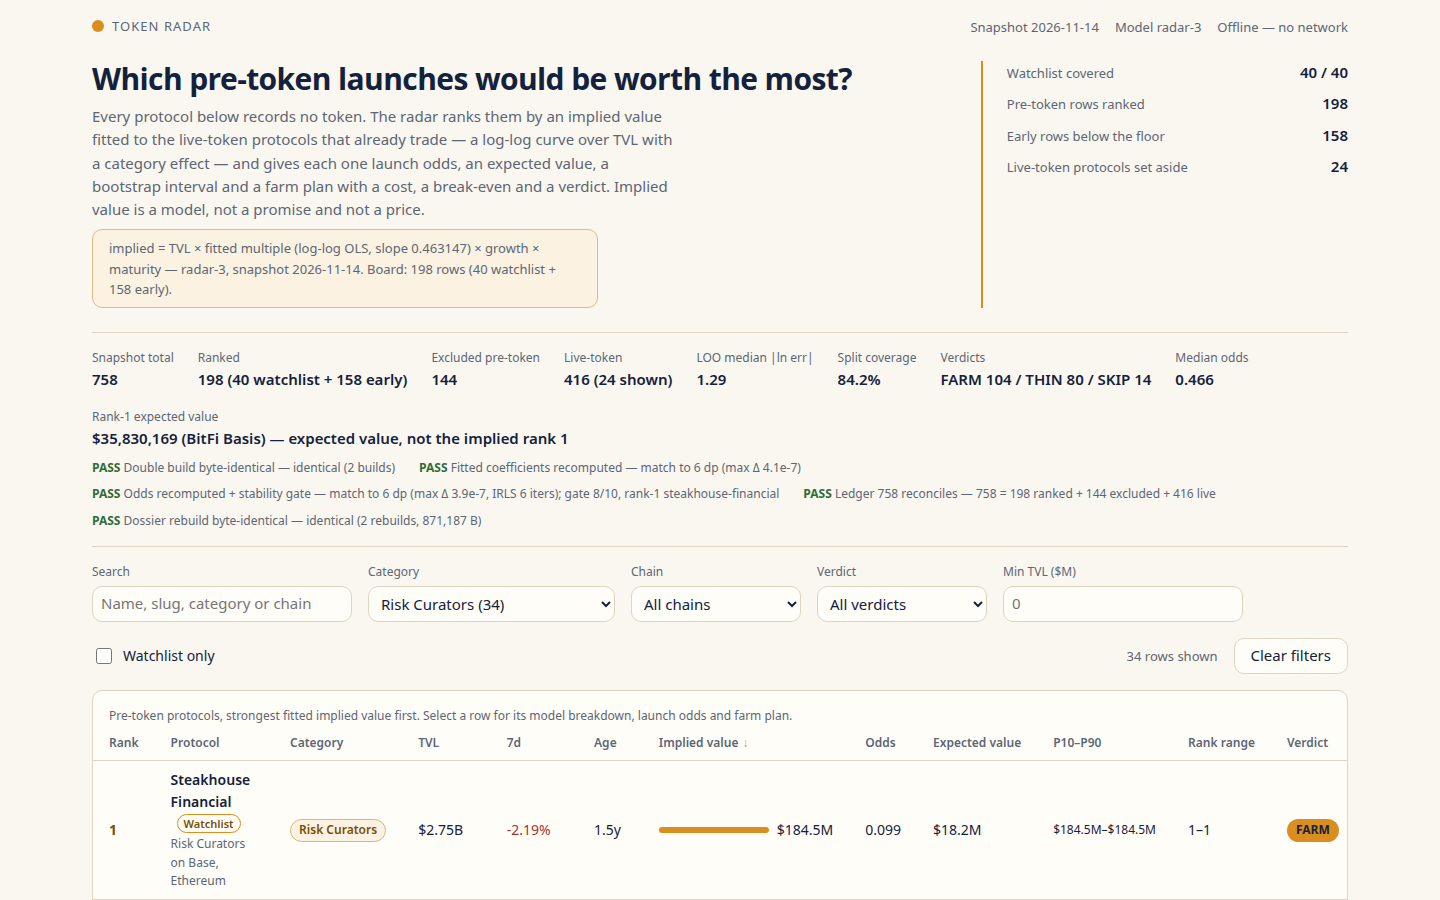
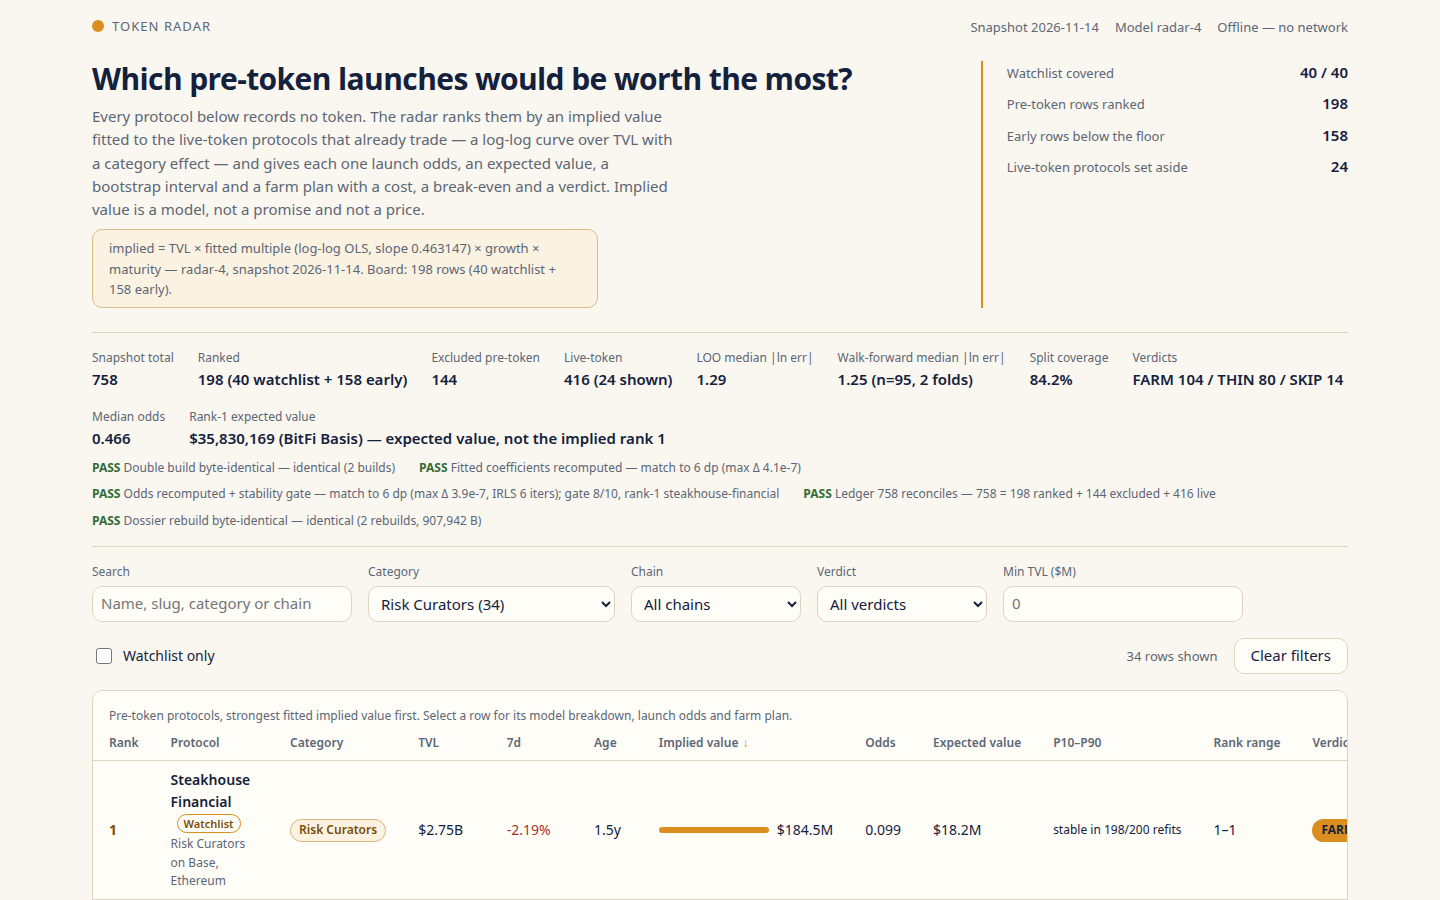
Radar-4 T5: dashboard rendering (WF KPI + methodology, ablation table, comps, stable intervals) + screenshots + verify V22-V25
Dashboard 62,906 B (<=65,000 target). Screenshots re-rendered 1440x900
(1280x720 would fail the RULES.txt short-side >=800px gate):
1-board 180,283 B, 2-detail 283,347 B, 3-filtered 182,246 B.
Verify 25/25 (new V22 walk-forward, V23 ablation, V24 comps, V25 DOM),
behaviour 41/41, hash edge 10/10, double-run diff -r clean.
Board sha 78704c86, dossier 926,214 B sha bb1cb93a.

diff --git a/dashboard/app.js b/dashboard/app.js
@@ -44,6 +44,14 @@
   function fmtRange(lo, hi) {
     return fmtUsd(lo) + '–' + fmtUsd(hi);
   }
+  // Collapsed bootstrap intervals (P10 = P90) are shown as the measured
+  // refit count, never as two identical bounds (radar-4 T4).
+  function fmtInterval(r) {
+    if (r.stable_refits !== null && r.stable_refits !== undefined) {
+      return 'stable in ' + r.stable_refits + '/' + DATA.assumptions.bootstrap_b + ' refits';
+    }
+    return fmtRange(r.p10_usd, r.p90_usd);
+  }
   function median(xs) {
     var s = xs.slice().sort(function (a, b) { return a - b; });
     var m = s.length >> 1;
@@ -237,7 +245,7 @@
         )),
         el('td', { class: 'num', text: fmtOdds(r.odds) }),
         el('td', { class: 'num', text: fmtUsd(r.expected_value_usd) }),
-        el('td', { class: 'num interval', text: fmtRange(r.p10_usd, r.p90_usd) }),
+        el('td', { class: 'num interval', text: fmtInterval(r) }),
         el('td', { class: 'num', text: r.rank_lo + '–' + r.rank_hi }),
         el('td', null, el('span', { class: 'verdict v-' + r.verdict.toLowerCase(), text: r.verdict }))
       );
@@ -311,6 +319,7 @@
       ['Excluded pre-token', String(L.excluded_pre)],
       ['Live-token', L.live + ' (' + L.live_shown + ' shown)'],
       ['LOO median |ln err|', F.loo_median.toFixed(2)],
+      ['Walk-forward median |ln err|', F.walk_forward.pooled_median.toFixed(2) + ' (n=' + F.walk_forward.n + ', 2 folds)'],
       ['Split coverage', (F.split_coverage * 100).toFixed(1) + '%'],
       ['Verdicts', 'FARM ' + V.FARM + ' / THIN ' + V.THIN + ' / SKIP ' + V.SKIP],
       ['Median odds', DATA.median_odds.toFixed(3)],
@@ -370,6 +379,15 @@
         return [h.variant, [h.loo_median.toFixed(4), 'num'], [h.loo_rmse.toFixed(4), 'num'], [h.split_median.toFixed(4), 'num']];
       })));
     fitDiv.appendChild(el('p', { text: 'Held-out evidence for the fitted model: LOO median |ln err| ' + F.loo_median.toFixed(4) + ', LOO RMSE ' + F.loo_rmse.toFixed(4) + ', 70/30 split median |ln err| ' + F.split_median.toFixed(4) + ' (seed ' + A.split_seed + ', test = first 38 of the seeded shuffle), R² ' + F.r2.toFixed(4) + ', residual SD ' + F.resid_sd.toFixed(4) + '. P10–P90 coverage is ' + (F.loo_coverage * 100).toFixed(1) + '% (LOO) and ' + (F.split_coverage * 100).toFixed(1) + '% (split) against a target of 80%. Honest limit: the fit is weak in absolute terms (R² 0.25; a typical live token’s market cap is mispredicted by a factor of e^' + F.loo_median.toFixed(2) + ' ≈ 3.6 at the LOO median). It beats the median model; it does not predict market cap precisely.' }));
+    // --- walk-forward + ablation (radar-4) ---
+    var WF = F.walk_forward;
+    fitDiv.appendChild(el('p', { text: 'Walk-forward validation: the ' + WF.n + ' live-token protocols with a listed date (' + WF.n_null_excluded + ' record no date and are excluded, never imputed; ' + WF.earliest + ' to ' + WF.latest + ') are ordered oldest first. Fitting on the oldest ' + WF.folds[0].train + ' and testing the ' + WF.folds[0].test + ' newest gives median |ln err| ' + WF.folds[0].median.toFixed(4) + ' (coverage ' + (WF.folds[0].coverage * 100).toFixed(1) + '%); fitting on the oldest ' + WF.folds[1].train + ' and testing the ' + WF.folds[1].test + ' newest gives ' + WF.folds[1].median.toFixed(4) + ' (coverage ' + (WF.folds[1].coverage * 100).toFixed(1) + '%). Pooled over both folds (' + (WF.folds[0].test + WF.folds[1].test) + ' test predictions; the 15 newest are counted in both folds) the median is ' + WF.pooled_median.toFixed(4) + ' (coverage ' + (WF.pooled_coverage * 100).toFixed(1) + '%). The comparable leave-one-out median on the same implied basis (clamped multiple) is ' + WF.loo_implied_median.toFixed(4) + '. The second fold is worse than the first — reported as measured, not as a pass.' }));
+    fitDiv.appendChild(miniTable('Ablation — blind-test median |ln err| with each term removed (implied basis, clamped multiple). A term is dropped only when removing it improves both blind tests by more than the drop bar; no term cleared it, so every term is kept and the ranking is unchanged.',
+      ['Term', 'LOO without', 'Δ LOO', 'Walk-forward pooled without', 'Decision'],
+      F.ablation.map(function (a) {
+        return [a.term, [a.loo_without.toFixed(4), 'num'], [(a.loo_delta >= 0 ? '+' : '') + a.loo_delta.toFixed(4), 'num'], [a.wf_pooled_without.toFixed(4), 'num'], a.decision];
+      })));
+    fitDiv.appendChild(el('p', { text: F.ablation.map(function (a) { return a.term + ': ' + a.note; }).join(' ') }));
 
     // --- launch odds ---
     var oddsDiv = document.getElementById('methodOdds');
@@ -490,7 +508,7 @@
         ['Implied value', [money.format(ra.implied_value_usd), 'num'], [money.format(rb.implied_value_usd), 'num']],
         ['Odds', [fmtOdds(ra.odds), 'num'], [fmtOdds(rb.odds), 'num']],
         ['Expected value', [money.format(ra.expected_value_usd), 'num'], [money.format(rb.expected_value_usd), 'num']],
-        ['P10–P90', [fmtRange(ra.p10_usd, ra.p90_usd), 'num'], [fmtRange(rb.p10_usd, rb.p90_usd), 'num']],
+        ['P10–P90', [fmtInterval(ra), 'num'], [fmtInterval(rb), 'num']],
         ['Rank range', [(ra.rank_lo + '–' + ra.rank_hi), 'num'], [(rb.rank_lo + '–' + rb.rank_hi), 'num']],
         ['Verdict', ra.verdict, rb.verdict],
         ['Farm cost', [money.format(ra.farm_cost_usd), 'num'], [money.format(rb.farm_cost_usd), 'num']],
@@ -547,13 +565,21 @@
       el('p', { text: multLine + '. The curve is log mcap = ' + m.intercept + ' + ' + m.slope + ' × ln(TVL) + category effect, fitted to the ' + DATA.fit.n + ' live-token protocols; the D1r median multiple for this category (' + m.d1r_multiple + ') is the fallback. ' + growthWord + ' Maturity multiplier ' + m.maturity_multiplier + ' rewards ' + fmtAge(row.age_days) + ' of life with no token on record. The fit is weak in absolute terms (R² ' + DATA.fit.r2.toFixed(2) + ') — see Methodology.' })
     ));
     dialog.appendChild(el('section', { class: 'detail-section' },
+      el('h3', { text: 'Anchored by traded tokens' }),
+      el('p', { text: 'The implied value is anchored to the three traded tokens nearest in TVL' + (row.comps_same_category < 3 ? ' — only ' + row.comps_same_category + ' of the 3 share this category, the rest are the TVL-nearest tokens of any category.' : ', all three in this category.') }),
+      el('ul', { class: 'comps' }, row.comps.map(function (c) {
+        return el('li', null, el('b', { text: c.name }),
+          document.createTextNode(' — mcap/TVL ' + c.multiple + (c.same_category ? ' (same category)' : ' (other category)') + ', TVL ' + fmtUsd(c.tvl_usd)));
+      }))
+    ));
+    dialog.appendChild(el('section', { class: 'detail-section' },
       el('h3', { text: 'Launch odds and expected value' }),
       el('p', { text: 'Odds ' + fmtOdds(row.odds) + ' — a peer-resemblance score, not a forecast that a token will launch. Expected value ' + money.format(row.expected_value_usd) + ' = implied value × odds.' }),
       el('p', { text: 'Odds inputs: ln(age ' + (row.age_days === null ? '365 (unknown)' : row.age_days + 'd') + ') = ' + Math.log(row.age_days === null ? 365 : row.age_days).toFixed(3) + '; growth term ' + (row.change_7d === null ? '0' : (Math.min(60, Math.max(-40, row.change_7d)) / 100).toFixed(3)) + '; peer rate in this category ' + (row.peer_shrunk * 100).toFixed(1) + '% (shrunk), peer logit ' + row.peer_logit.toFixed(3) + '. The snapshot holds no launch event, so no true launch rate can be estimated.' })
     ));
     dialog.appendChild(el('section', { class: 'detail-section' },
       el('h3', { text: 'Uncertainty (bootstrap)' }),
-      el('p', { text: 'P10–P90 ' + fmtRange(row.p10_usd, row.p90_usd) + (row.p10_usd === row.p90_usd ? ' — at clamp bound: the fitted multiple sits at the clamp bound in nearly every refit, so the interval is degenerate; the rank range beside it is the computed range, narrow for the top rows.' : '.') + ' Rank range ' + row.rank_lo + '–' + row.rank_hi + ' across ' + DATA.assumptions.bootstrap_b + ' refits. Wide ranges are shown as computed, never shrunk.' })
+      el('p', { text: (row.stable_refits !== null && row.stable_refits !== undefined ? 'P10–P90 stable in ' + row.stable_refits + '/' + DATA.assumptions.bootstrap_b + ' refits — the fitted multiple sits at the clamp bound in nearly every refit, so the interval is degenerate; the rank range beside it is the computed range, narrow for the top rows.' : 'P10–P90 ' + fmtRange(row.p10_usd, row.p90_usd) + '.') + ' Rank range ' + row.rank_lo + '–' + row.rank_hi + ' across ' + DATA.assumptions.bootstrap_b + ' refits. Wide ranges are shown as computed, never shrunk.' })
     ));
     dialog.appendChild(el('section', { class: 'detail-section' },
       el('h3', { text: 'Farm plan — 7 steps' }),

diff --git a/tests/hash-edge-cases.py b/tests/hash-edge-cases.py
@@ -24,7 +24,7 @@ import tempfile
 from pathlib import Path
 
 ROOT = Path(__file__).resolve().parent.parent
-SNAPSHOT = '/home/hatch/workspace/makefun/scout-2026-11-21/kits/token-radar-01/input/snapshot.json'
+SNAPSHOT = '/home/hatch/workspace/makefun/token-radar/kit-fresh/token-radar-01-kit/input/snapshot.json'
 
 failures = []
 

diff --git a/BUILD.md b/BUILD.md
@@ -716,3 +716,43 @@ disentuh: `dashboard/app.js`, `BUILD.md` (bagian ini + 3 hitungan suite),
 - **Angka model/board TIDAK berubah:** top-10, verdict FARM 104 / THIN 80 /
   SKIP 14, LOO 1.2908, R² 0.2493, AUC 0.7647, EV maks $35,830,169 —
   semuanya sama; V15–V21 recompute independen tetap lolos.
+
+## radar-4 (tickets T1–T5, spec radar-4 + amendment Fase A) — 23 Nov 2026, Fase B (build)
+
+- **Built:** branch `radar-4` dari HEAD `2cdce26`. Model commit `8e5f420`
+  (T1–T4 model + behaviour), dashboard/screenshot commit menyusul. Status:
+  BUILD ONLY — NO submit, NO bundle, NO check-submit, NO push, NO wallet baru.
+  Kit fresh level 38; snapshot byte-identik dengan kit 21 Nov (sha `42a71213…`).
+- **T1 walk-forward (n=95 dated live, 33 null excluded, tanpa imputasi):**
+  lipatan 66/29 median 1.2004 coverage 79.3%; lipatan 80/15 median 2.2077
+  coverage 73.3%; gabungan (44 prediksi, 15 termuda di kedua lipatan) median
+  1.2509 coverage 77.3%; LOO implied-basis (clamped) 1.2490. Basis = implied
+  dengan clamp 0.08–0.60 (41/128 live-token di luar clamp) — versi pertama
+  tanpa clamp memberi angka berbeda (gabungan 1.3779) dan diperbaiki setelah
+  script recompute kedua menangkapnya (lihat
+  `verification/build-log-radar4.md` §0).
+- **T2 ablasi (LOO / WF gabungan, full 1.2490 / 1.2509; drop bar 0.05):**
+  slope/size 1.2006 / 1.3403, growth 1.3106 / 1.3183, maturity 1.2387 / 1.3542,
+  category effects 1.2434 / 1.2126 — semua KEEP, tidak ada term lolos bar.
+  Board ranking TIDAK berubah; top-10 dan verdict (FARM 104 / THIN 80 /
+  SKIP 14) sama dengan radar-3.1.
+- **T3 comps:** 3 traded-token terdekat per baris (|ln TVL ratio|,
+  se-kategori dulu, TVL terdekat lintas kategori); 102/198 baris butuh
+  fallback (18 dengan 0 se-kategori). Dialog detail menampilkan "Anchored by".
+- **T4:** 5 baris p10==p90 menampilkan "stable in N/200 refits" dengan N
+  terukur (steakhouse 198, sentora 198, gauntlet 197, veda 196, usdd 188) —
+  bukan 200/200. Angka bootstrap di data.js tidak berubah.
+- **T5:** dashboard 62.906 B (html 7.520 + js 45.081 + css 10.305) ≤ 65.000 B
+  target. Screenshot di-render ulang 1440×900 (BUKAN 1280×720: RULES.txt
+  level 38 mensyaratkan short side ≥ 800 px, jadi 720 px akan gagal gate):
+  1-board.png 180.283 B, 2-detail.png 283.347 B, 3-filtered.png 182.246 B.
+- **Suites:** behaviour 41/41, verify 25/25 (V1–V21 + V22 walk-forward,
+  V23 ablasi, V24 comps, V25 dashboard DOM), hash edge-case 10/10,
+  double-run `diff -r` bersih. Board hash `78704c86…` (516.059 B — berubah
+  dari radar-3.1 `5d414252…` hanya karena field baru comps/stable_refits;
+  ranking + implied values byte-identik). Dossier 926.214 B, sha `bb1cb93a…`.
+- **Aturan env-secret (RULES.txt level 38):** grep bersih — tidak ada
+  eval/Function/vm/dynamic import di kode entry; satu-satunya `process.env`
+  adalah `main.ts` membaca `MAKEFUN_OUTPUT_DIR` sebagai path (diizinkan).
+- **Tidak dilakukan (di luar Fase B):** README tidak diubah (Fase E),
+  tidak ada bundle/check-submit/submit/push.
